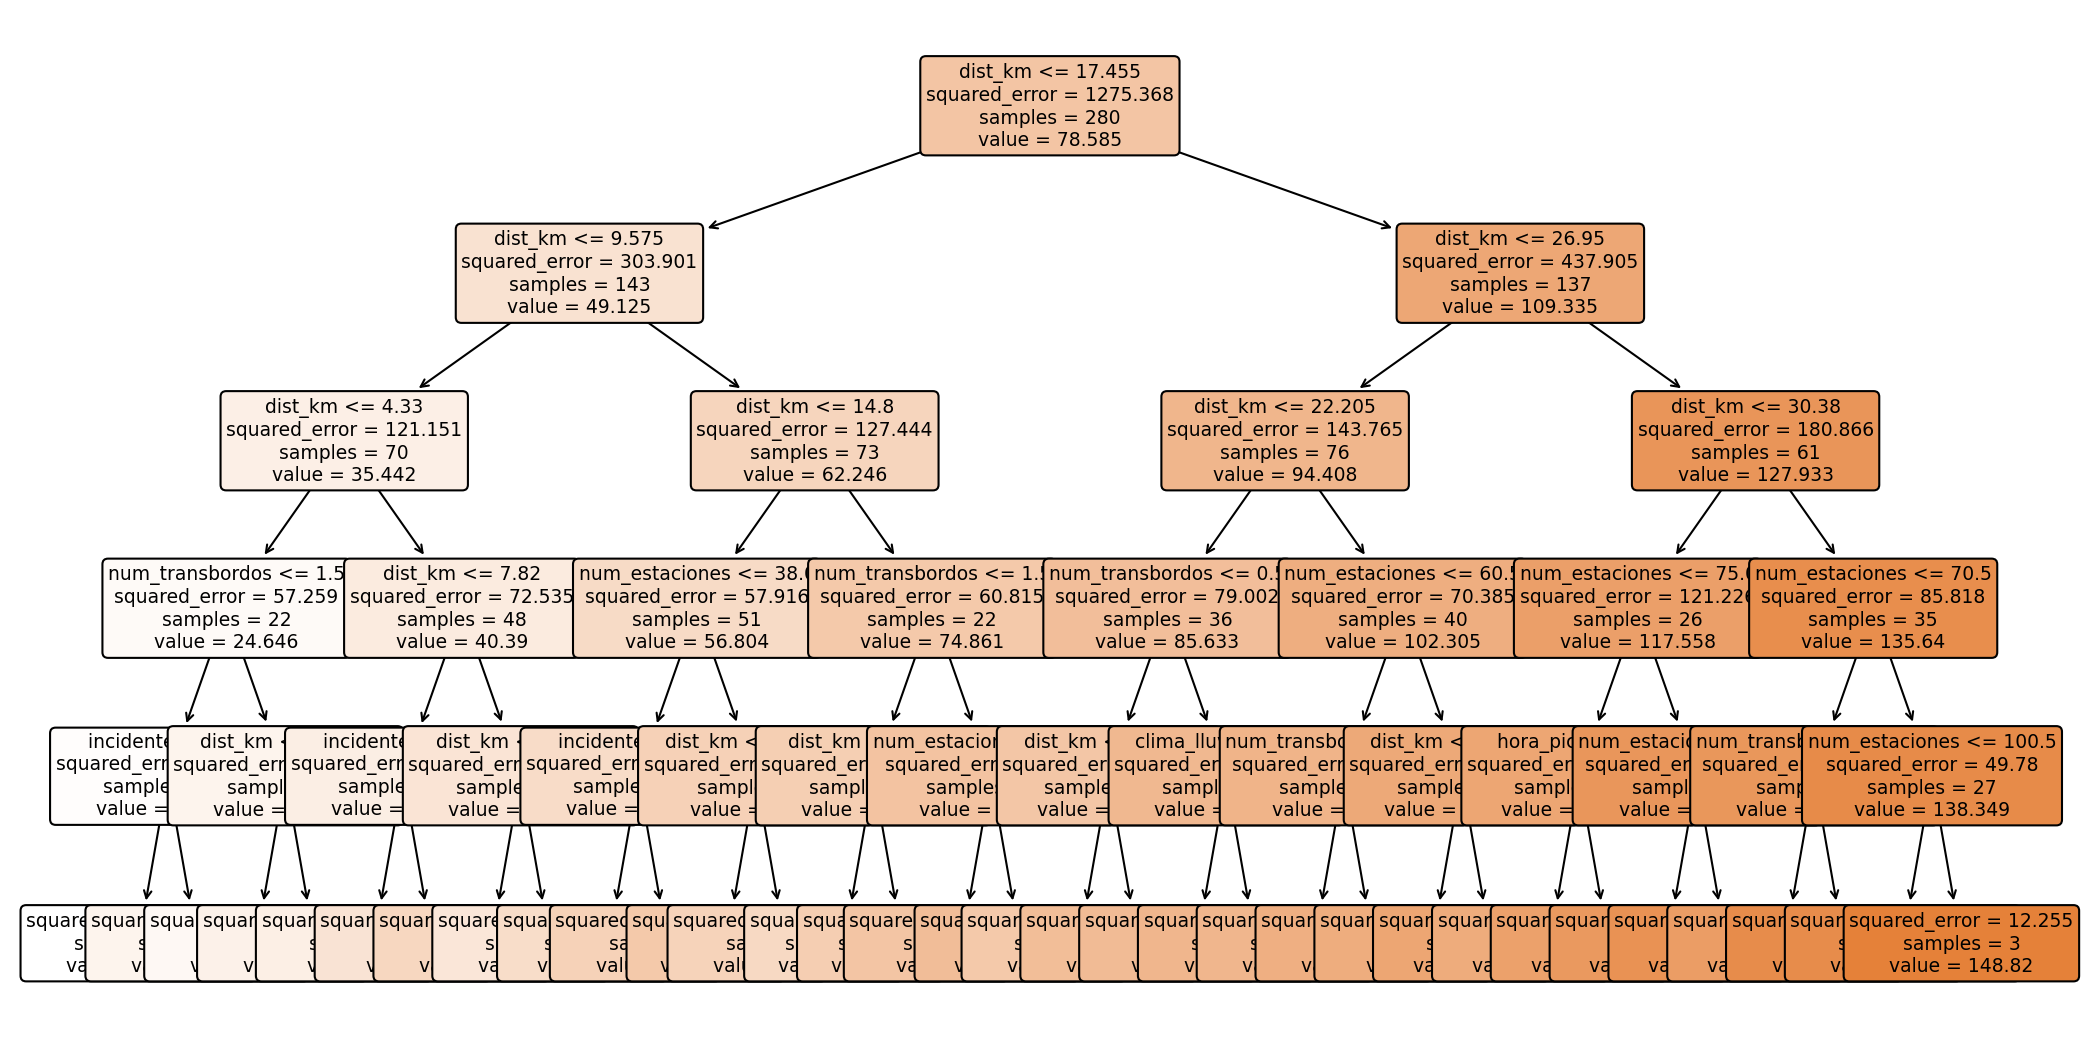
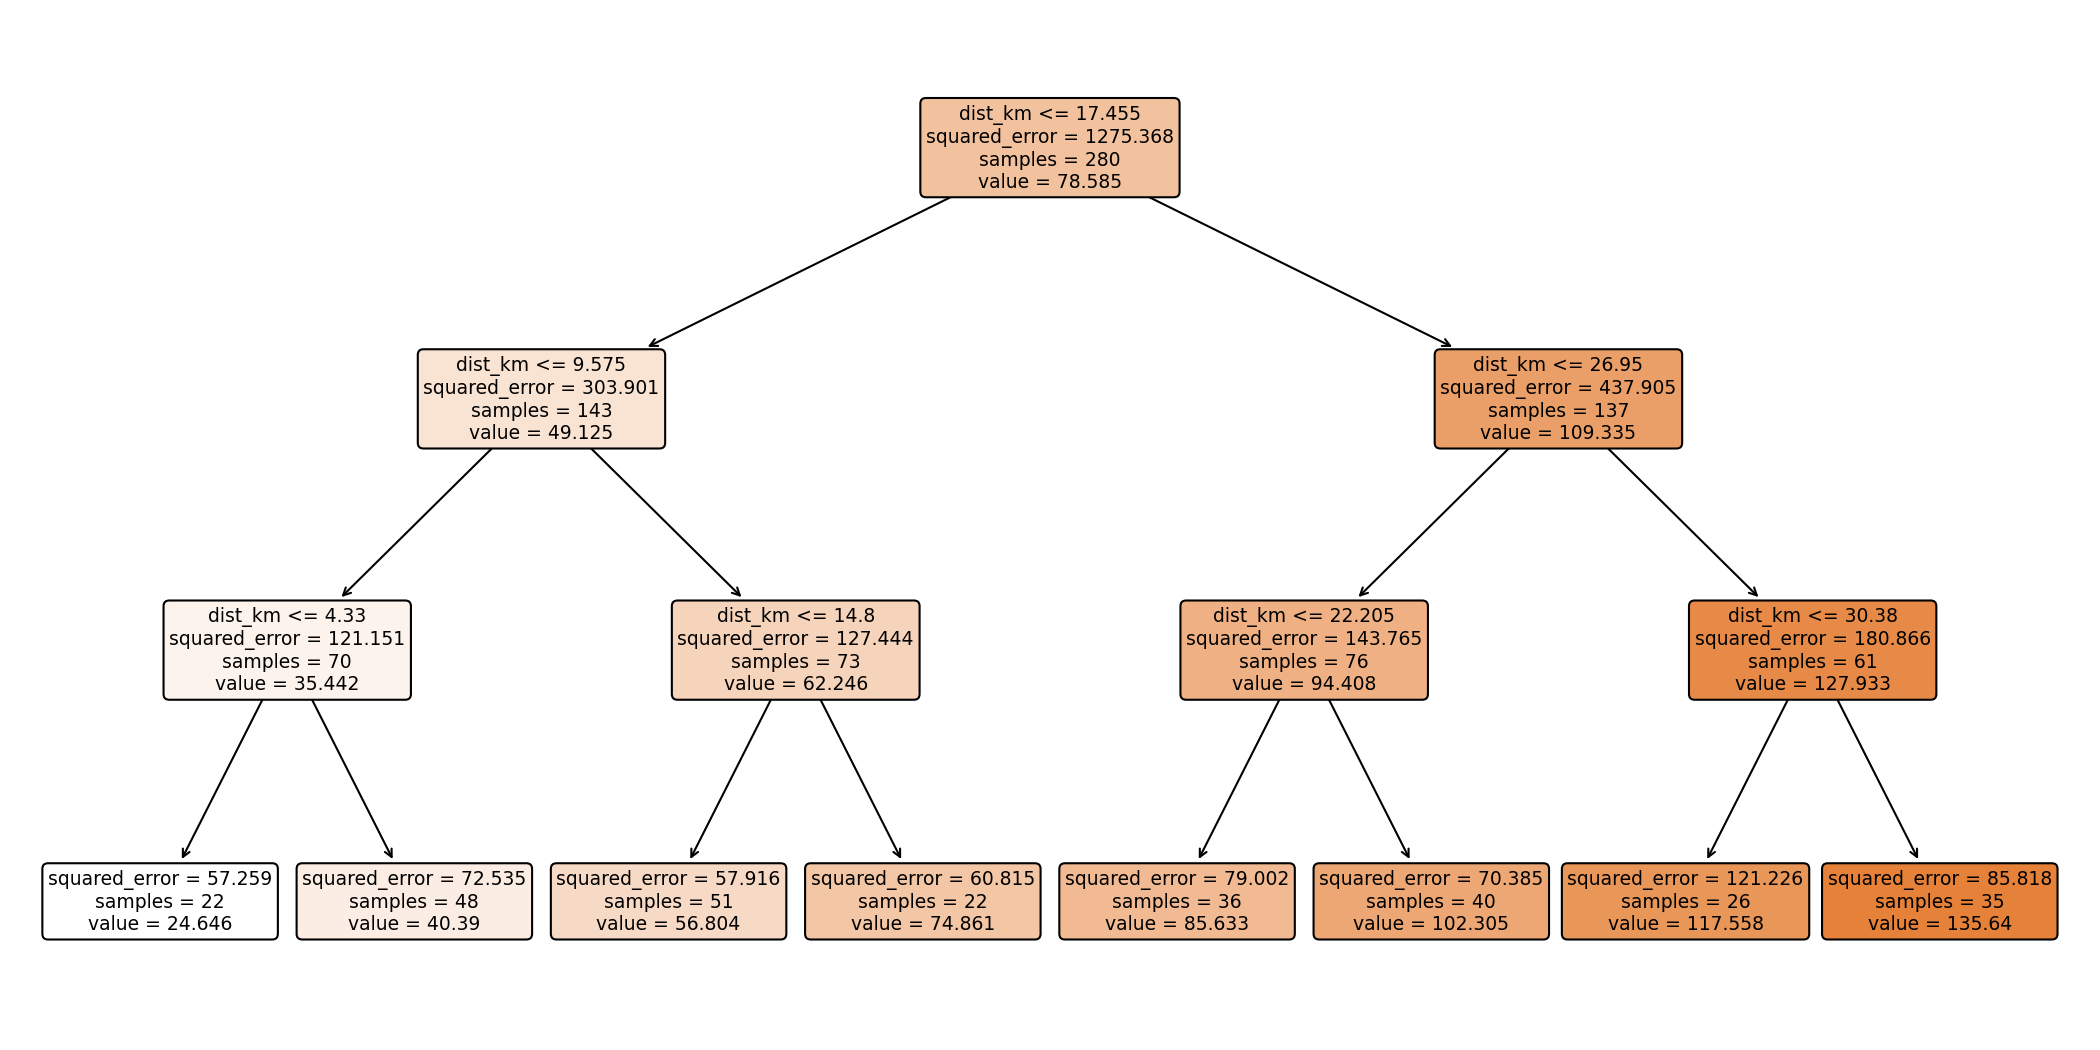
Se añade descripción de dataset y notas de testing del modelo, se corrige generación de arbol de decisión

diff --git a/src/modelo_supervisado.py b/src/modelo_supervisado.py
@@ -57,7 +57,13 @@ def entrenar_modelo(df):
         X, y, test_size=0.3, random_state=123
     )
 
-    modelo = DecisionTreeRegressor(max_depth=5, random_state=123)
+    modelo = DecisionTreeRegressor(
+      max_depth=3,
+      min_samples_leaf=20,
+      min_samples_split=40,
+      random_state=123
+    )
+
     modelo.fit(X_train, y_train)
 
     preds = modelo.predict(X_test)

diff --git a/docs/descripcion_datos.md b/docs/descripcion_datos.md
@@ -1,0 +1,19 @@
+# Descripcion de datos - Transporte masivo (Actividad 3)
+
+## Fuente de datos
+Para esta actividad se construyo un dataset simulado, basado en variables que normalmente afectan el tiempo de viaje en un sistema de transporte masivo (distancia, numero de estaciones, transbordos, hora pico, clima e incidentes).
+
+Se simulo porque no se dispone de una fuente publica directa con este nivel de detalle para el proyecto.
+
+## Variables
+- dist_km: distancia aproximada del trayecto (km)
+- num_estaciones: numero de estaciones recorridas
+- num_transbordos: cantidad de transbordos realizados
+- hora_pico: 1 si es hora pico, 0 si no
+- clima_lluvia: 1 si hay lluvia, 0 si no
+- incidente: 1 si ocurre un incidente, 0 si no
+- dia_semana: 0-6 (dia de la semana)
+- tiempo_min (objetivo): tiempo total del viaje en minutos
+
+## Objetivo del modelo
+Predecir el tiempo_min (regresion) a partir de las variables explicativas.

diff --git a/docs/pruebas_modelo.md b/docs/pruebas_modelo.md
@@ -1,0 +1,18 @@
+# Pruebas realizadas - Modelo supervisado
+
+## Como ejecutar
+1. Crear y activar entorno virtual
+2. Instalar dependencias: `pip install -r requirements.txt`
+3. Ejecutar: `python src/modelo_supervisado.py`
+
+## Evidencia
+- Se genera el dataset: `data/raw/dataset_transporte_masivo.csv`
+- Se genera el arbol: `outputs/arbol_decision.png`
+
+## Resultados
+En consola se imprimen las metricas:
+- MAE (min)
+- RMSE (min)
+- R2
+
+Nota: Los valores pueden variar ligeramente si cambia la semilla o el tamano de la muestra.
